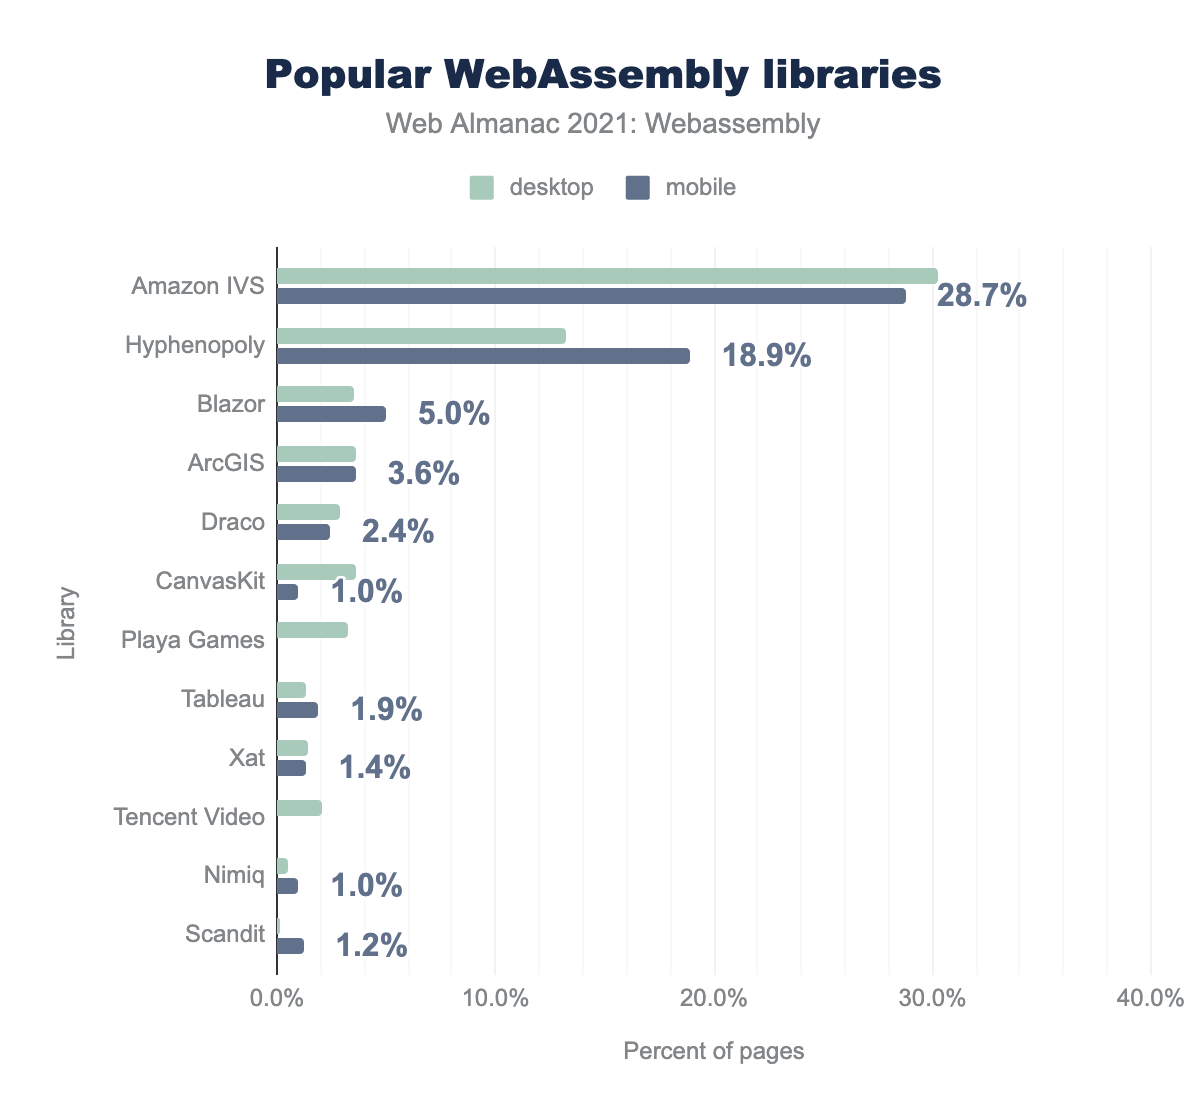
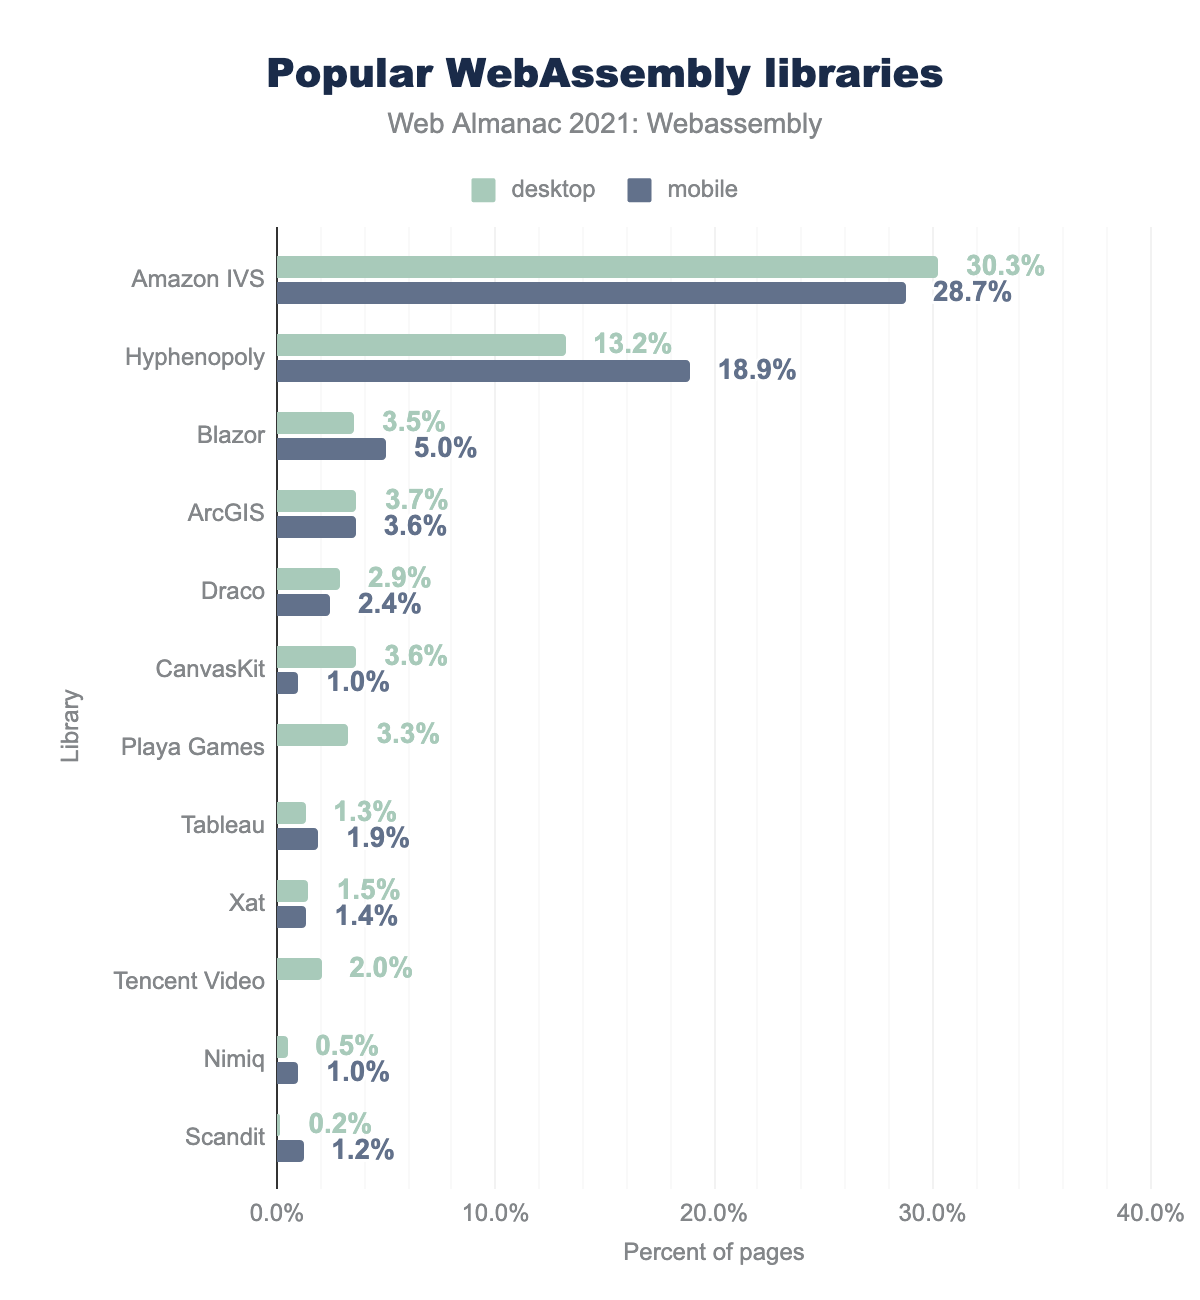
Add labels back to library graph

diff --git a/src/content/en/2021/webassembly.md b/src/content/en/2021/webassembly.md
@@ -88,14 +88,14 @@ Let's dive deeper and figure out what those reused libraries are. First, we've t
 Instead, we decided to extract library names from URLs. While it's more problematic in theory due to potential name clashes, it turned out to be a more reliable option for top libraries in practice. We extracted filenames from URLs, removed extensions, minor versions and suffixes that looked like content hashes, sorted the results by number of repetitions and extracted the top 10 modules for each client. For those left, we did manual lookups to understand which libraries those modules are coming from.
 
 {{ figure_markup(
-  caption="Popular libraries.",
+  caption="Popular WebAssembly libraries.",
   description="Bar chart showing top 10 libraries in desktop and mobile datasets, merged into one graph. Each library is shown along with percentage of Wasm requests that could be attributed to it. The list is as follows: Amazon IVS (30.3% on desktop and 28.7% on mobile), Hyphenopoly (13.2% and 18.9%), Blazor (3.5% and 5.0%), ArcGIS (3.7% and 3.6%), Draco (2.9% and 2.4%), CanvasKit (3.6% and 1%), Playa Games (3.3% on desktop only), Tableau (1.3% on desktop and 1.9% on mobile), Xat (1.5% and 1.4%), Tencent Video (2% on desktop only), Nimiq (0.5% and 1%), and Scandit (0.2% and 1.2%).",
   chart_url="https://docs.google.com/spreadsheets/d/e/2PACX-1vT6yhkn3lw148YQQHLoqA71NIsZLSSoBtgFmd_hRyhcmyPl2OpLyuOjUBk64I5DLE_grN8esL8oA3zt/pubchart?oid=384910968&format=interactive",
   sheets_gid="1520429605",
   sql_file="popular_by_name.sql",
   image="popular_by_name.png",
   width=600,
-  height=556
+  height=650
   )
 }}
 
